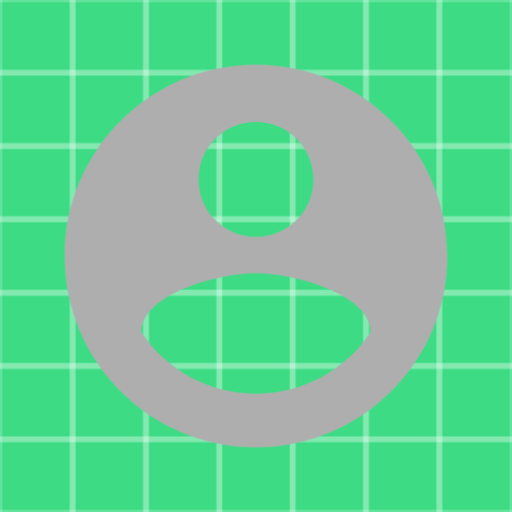
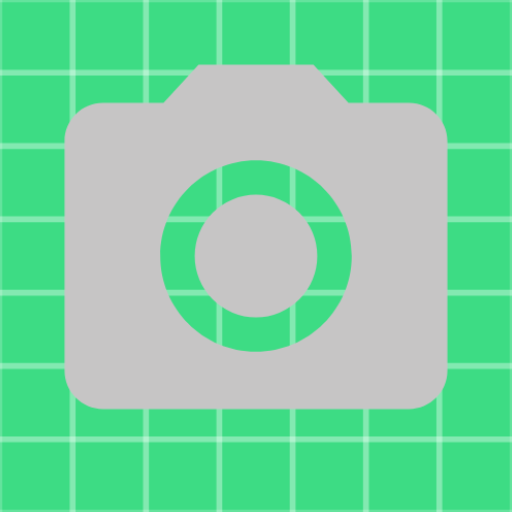
Profile Info

Changed region(s): [[0.125, 0.2188, 0.875, 0.875], [0.5312, 0.125, 0.875, 0.5], [0.125, 0.125, 0.4688, 0.4688]]

diff --git a/app/src/main/java/com/tsproject/enchat/ProfileInfoActivity.java b/app/src/main/java/com/tsproject/enchat/ProfileInfoActivity.java
@@ -1,35 +1,64 @@
 package com.tsproject.enchat;
 
 import androidx.annotation.NonNull;
+import androidx.annotation.Nullable;
 import androidx.appcompat.app.AppCompatActivity;
 
 import android.content.Intent;
+import android.net.Uri;
 import android.os.Bundle;
+import android.util.Log;
 import android.view.View;
 import android.widget.Button;
 import android.widget.EditText;
 import android.widget.Toast;
 
+import com.github.dhaval2404.imagepicker.ImagePicker;
 import com.google.android.gms.tasks.OnFailureListener;
 import com.google.android.gms.tasks.OnSuccessListener;
 import com.google.firebase.auth.FirebaseAuth;
 import com.google.firebase.auth.FirebaseUser;
 import com.google.firebase.database.DatabaseReference;
 import com.google.firebase.database.FirebaseDatabase;
+import com.google.firebase.storage.FirebaseStorage;
+
+import de.hdodenhof.circleimageview.CircleImageView;
 
 public class ProfileInfoActivity extends AppCompatActivity {
-    Button btnNext;
+    Button btnFinish;
     EditText etName;
+    FirebaseAuth auth;
+    FirebaseStorage storage;
+    FirebaseDatabase db;
+    CircleImageView civProfile;
 
     @Override
     protected void onCreate(Bundle savedInstanceState) {
         super.onCreate(savedInstanceState);
         setContentView(R.layout.activity_profile_info);
-        btnNext = findViewById(R.id.btnProfileNext);
+        btnFinish = findViewById(R.id.btnProfileNext);
         etName = findViewById(R.id.etName);
-        btnNext.setOnClickListener(new View.OnClickListener() {
+        civProfile = findViewById(R.id.ivProfilePhoto);
+
+        db = FirebaseDatabase.getInstance();
+        storage = FirebaseStorage.getInstance();
+        auth = FirebaseAuth.getInstance();
+        civProfile.setOnClickListener(new View.OnClickListener() {
             @Override
             public void onClick(View v) {
+                ImagePicker.with(ProfileInfoActivity.this)
+                        .crop()
+                        .compress(1024)
+                        .maxResultSize(1080, 1080)
+                        .start();
+                Log.d("Camera", "onClick: permission given");
+                Log.d("Camera", "onClick: permisison denied");
+            }
+        });
+        btnFinish.setOnClickListener(new View.OnClickListener() {
+            @Override
+            public void onClick(View v) {
+
                 String rec_name = etName.getText().toString().trim();
                 if (rec_name.equals("")) {
                     etName.setError("Enter your name");
@@ -59,5 +88,14 @@ public class ProfileInfoActivity extends AppCompatActivity {
                 }
             }
         });
+    }
+
+    @Override
+    protected void onActivityResult(int requestCode, int resultCode, @Nullable Intent data) {
+        super.onActivityResult(requestCode, resultCode, data);
+        Uri uri = data.getData();
+        Log.d("CAMERA", "onActivityResult: "+uri);
+        civProfile.setImageURI(uri);
+
     }
 }
